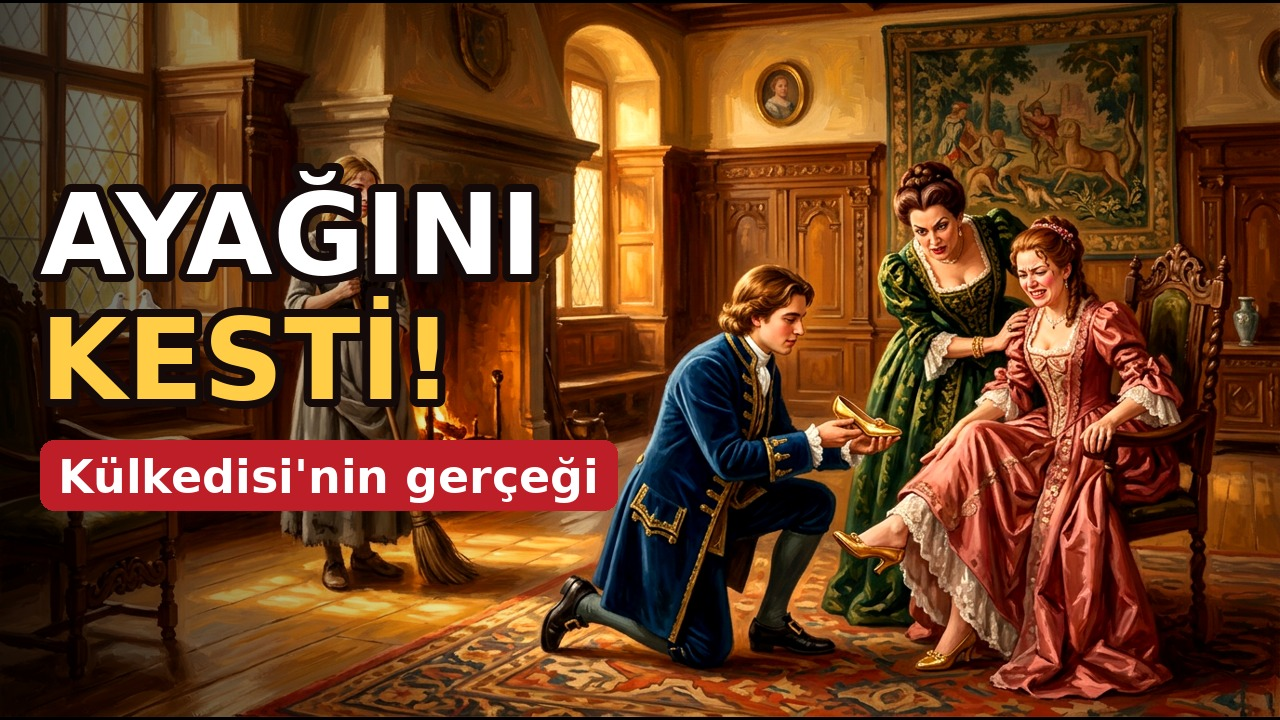
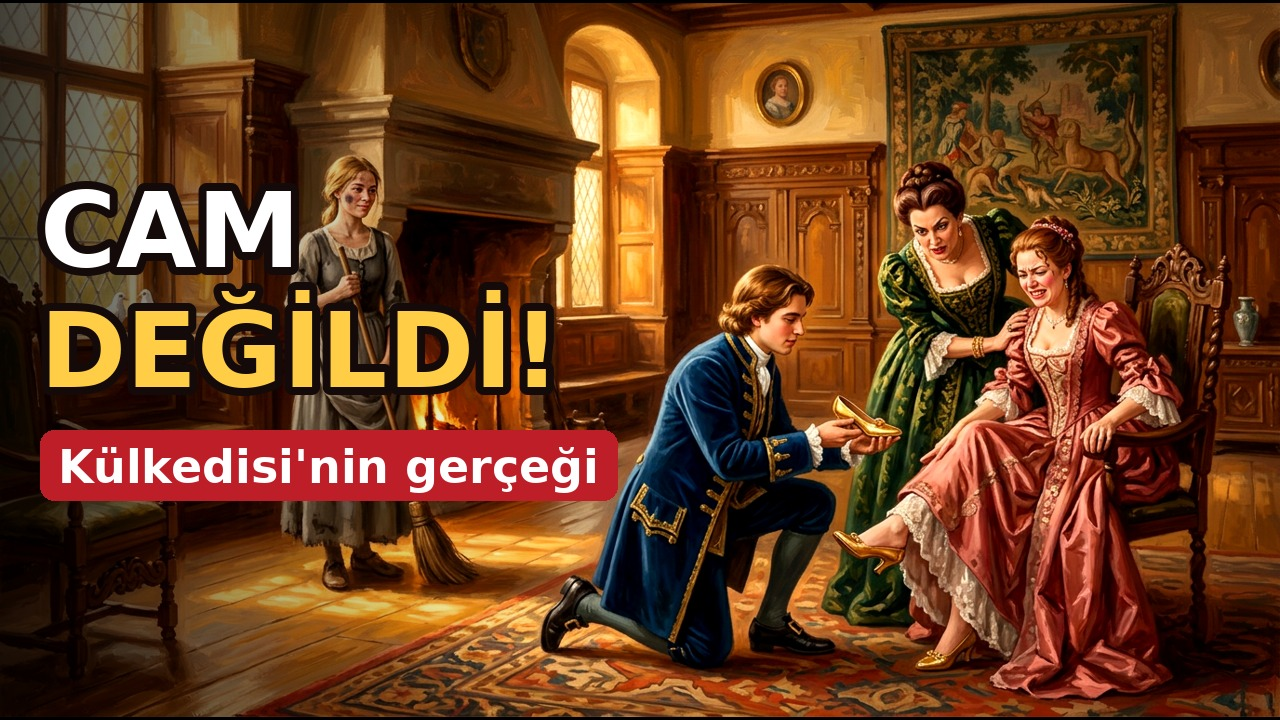
Ton kuralı: kan ve şiddet yok; bölüm 2-3 kancaları ve örnek kapak güncellendi
Claude-Session: https://claude.ai/code/session_01NedBjcyY7eUpy5qtcm4AzG

Changed region(s): [[0.0, 0.2139, 0.5, 0.7333]]

diff --git a/plan/BOLUMLER.md b/plan/BOLUMLER.md
@@ -6,8 +6,8 @@ Her bölümün iki yarısı var: **gerçek köken** (masalın ilk ve unutulmuş 
 | # | Başlık | Kanca (ilk 15 sn) | Yorum sorusu |
 | --- | --- | --- | --- |
 | 1 | Kırmızı Başlıklı Kız'ın Bilinmeyen Gerçek Sonu | "Bu masalın ilk versiyonunda avcı yoktu. Kimse gelmedi." | Sence kötü olan kimdi? |
-| 2 | Külkedisi Aslında Böyle Bitmiyordu | "Üvey kardeşler ayakkabıya sığmak için ayaklarını kesti." | Külkedisi intikam almalı mıydı? |
-| 3 | Pamuk Prenses'in Kraliçesine Ne Oldu? | "Düğünde kraliçeye kızgın demir ayakkabılar giydirildi." | Kraliçe kötü müydü, kıskanç mı? |
+| 2 | Külkedisi'nin Ayakkabısı Camdan Değildi | "Bu masalda peri anne yoktu. Ayakkabı da camdan değildi." | Külkedisi kardeşlerini affetmeli miydi? |
+| 3 | Pamuk Prenses'in Kraliçesine Ne Oldu? | "Bu masalın ilk hâlinde kötü kalpli kraliçe, Pamuk Prenses'in üvey annesi değildi." | Kraliçe kötü müydü, kıskanç mı? |
 | 4 | Hansel ile Gretel'in Gerçek Hikâyesi | "Bu masal, ailelerin çocuklarını besleyemediği kıtlık yıllarıyla ilişkilendiriliyor." | Asıl suçlu cadı mı, baba mı? |
 | 5 | Küçük Deniz Kızı'nın Unutulan Sonu | "Orijinal masalda prensle evlenmiyor." | Sen olsan sesini verir miydin? |
 | 6 | Uyuyan Güzel Aslında Uyumuyordu | "En eski versiyonda onu öpücük uyandırmıyor." | Bu masal bugün anlatılmalı mı? |
@@ -19,4 +19,7 @@ Her bölümün iki yarısı var: **gerçek köken** (masalın ilk ve unutulmuş 
 | 12 | DERLEME: Uyumadan Önce Dinle (1–6. bölümler) | – | En çok hangi masal şaşırttı? |
 
 **Not:** Gerçek köken bölümlerindeki bilgileri her senaryoda kaynaklardan kontrol edip öyle yazacağım.
-Kan ve şiddet sahneleri gösterilmez, yalnızca anlatılır; ton gizemli ama ürkütücü değil.
+
+**Ton kuralı:** Kan, şiddet, yaralama ve vahşet yok; ne görselde ne anlatımda. Orijinal masaldaki sert ayrıntılar
+atlanır ya da tek cümleyle yumuşak geçilir ("kardeşler ayakkabıya sığmak için her yolu denedi"). Kanca şok değil,
+şaşırtıcı bilgiyle kurulur. Ton merak uyandırıcı, sıcak, ailece izlenebilir.
